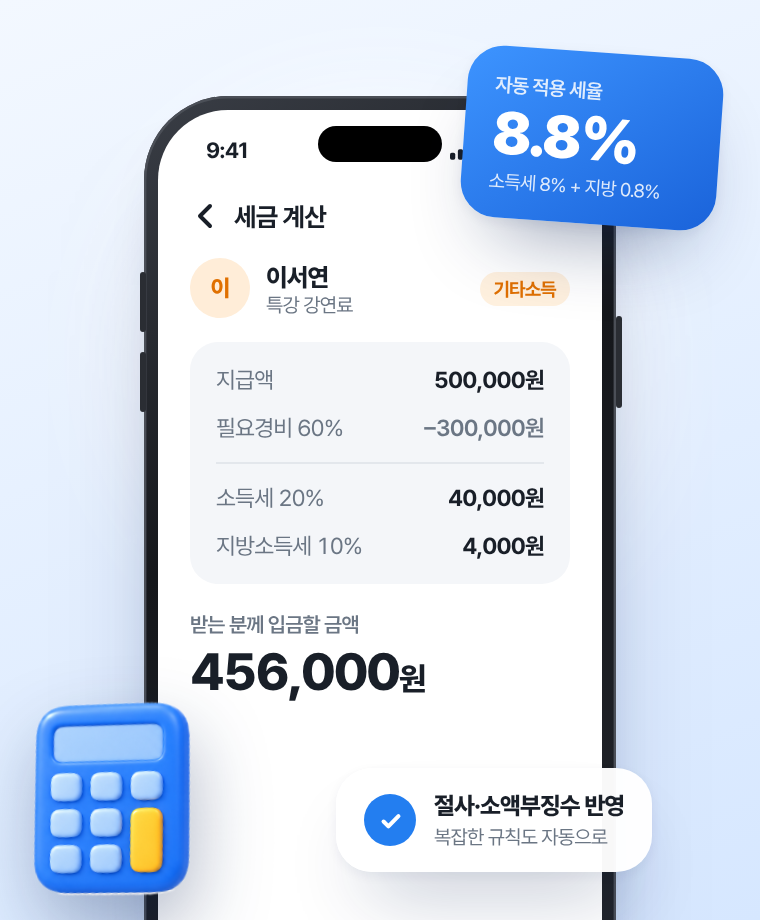
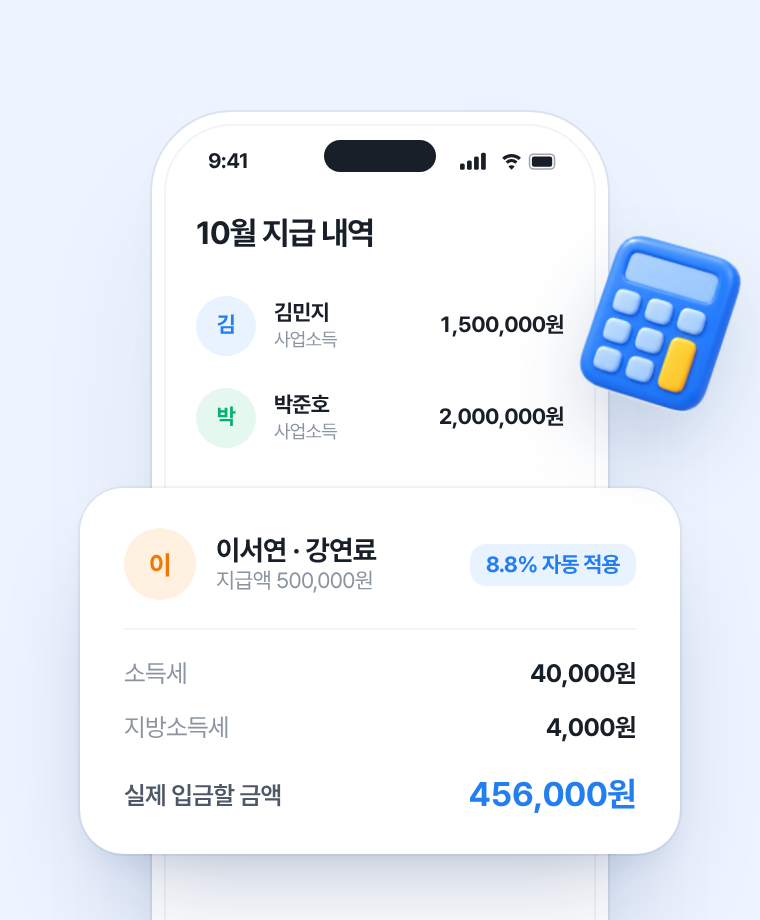
Restyle landing images in a restrained product-site look
Flat tint backgrounds, one straight light phone cropped at the bottom,
a single highlight per image (notification or pop-out card) and at most
one 3D object. Drops the dark bezels, tilted phones, glows, confetti and
stacked floating badges.

Claude-Session: https://claude.ai/code/session_01XeTdt5mgBf16amy12iLBWn

diff --git a/images/_source/frames.html b/images/_source/frames.html
@@ -1,214 +1,157 @@
 <!doctype html><html lang="ko"><head><meta charset="utf-8">
 <link rel="stylesheet" href="../../fonts/pretendard/pretendardvariable-dynamic-subset.css">
 <style>
-:root{--ink:#191F28;--sub:#6B7684;--faint:#A0A8B4;--line:#EDF0F3;--band:#F4F6F9;--blue:#237EF0;--deep:#1458C9;--wash:#EBF4FF;--soft:#CFE3FF;--kakao:#FEE500;--green:#14B866}
+/* 토스·당근 톤: 단색 배경, 반듯한 밝은 폰 하나(아래 크롭), 강조 요소 하나, 회색 단계 타이포 */
+:root{--g900:#191F28;--g700:#4E5968;--g500:#8B95A1;--g400:#B0B8C1;--g200:#E5E8EB;--g100:#F2F4F6;--g50:#F9FAFB;--blue:#237EF0;--bwash:#E8F3FF;--bg:#EDF4FF;--green:#03B26C;--gwash:#E5F8EF;--kakao:#FEE500}
 *{box-sizing:border-box;margin:0;padding:0}
-body{font-family:"Pretendard Variable",Pretendard,sans-serif;color:var(--ink);background:#ccc;letter-spacing:-.025em;-webkit-font-smoothing:antialiased;display:flex;flex-wrap:wrap;align-items:flex-start}
-.f{position:relative;overflow:hidden;margin:20px;flex-shrink:0}
+body{font-family:"Pretendard Variable",Pretendard,sans-serif;color:var(--g900);background:#999;letter-spacing:-.02em;-webkit-font-smoothing:antialiased;display:flex;flex-wrap:wrap;align-items:flex-start}
+.f{position:relative;overflow:hidden;margin:20px;flex-shrink:0;background:var(--bg)}
 .num{font-variant-numeric:tabular-nums}
-/* device */
-.dev{position:absolute;background:linear-gradient(150deg,#3A3E46 0%,#15171B 40%,#24272D 100%);padding:7px;box-shadow:0 50px 70px -36px rgba(8,30,80,.6),0 18px 30px -18px rgba(8,30,80,.35),inset 0 0 0 1.2px #4B4F57}
-.dev:before,.dev:after{content:"";position:absolute;width:3px;background:#2A2D33;border-radius:2px}
-.dev:before{left:-2.5px;top:88px;height:30px;box-shadow:0 40px 0 #2A2D33}
-.dev:after{right:-2.5px;top:110px;height:46px}
-.scr{background:#fff;height:100%;display:flex;flex-direction:column;position:relative;overflow:hidden;font-size:11px}
-.isl{position:absolute;top:8px;left:50%;transform:translateX(-50%);width:62px;height:18px;background:#000;border-radius:12px;z-index:5}
-.sb{height:36px;display:flex;align-items:center;justify-content:space-between;padding:4px 20px 0 24px;font-size:11px;font-weight:700;flex-shrink:0}
-.sb svg{display:block}
-.nav{height:34px;display:flex;align-items:center;gap:6px;padding:0 16px;font-weight:700;font-size:13px;flex-shrink:0}
-.bk{width:16px;height:16px;display:grid;place-items:center}
-.bd{padding:4px 16px 0;flex:1;display:flex;flex-direction:column;min-height:0}
-.h{font-size:19px;font-weight:800;line-height:1.32;letter-spacing:-.045em}
-.s{color:var(--sub);font-size:11px;margin-top:5px;line-height:1.5}
-.card{background:var(--band);border-radius:14px;padding:12px 14px}
+/* light phone */
+.ph{position:absolute;background:#fff;padding:7px;box-shadow:0 0 0 1px rgba(0,23,51,.07),0 40px 80px -30px rgba(0,40,100,.22),0 12px 24px -12px rgba(0,40,100,.10)}
+.ph>.scr{position:relative;height:100%;background:#fff;overflow:hidden;box-shadow:inset 0 0 0 1px var(--g100)}
+.isl{position:absolute;top:9px;left:50%;transform:translateX(-50%);width:64px;height:19px;background:var(--g900);border-radius:12px}
+.sb{height:38px;display:flex;align-items:center;justify-content:space-between;padding:3px 20px 0 26px;font-size:11.5px;font-weight:700}
+.pad{padding:0 20px}
+.t{font-weight:700;letter-spacing:-.04em;line-height:1.36}
+.c5{color:var(--g500)}.c7{color:var(--g700)}.cb{color:var(--blue)}
 .row{display:flex;justify-content:space-between;align-items:center}
-.btn{flex-shrink:0;height:42px;border-radius:12px;background:var(--blue);color:#fff;font-weight:700;font-size:12.5px;display:flex;align-items:center;justify-content:center;gap:6px}
-.btn.ghost{background:var(--wash);color:var(--blue)}
-.tag{display:inline-flex;align-items:center;font-size:9.5px;font-weight:700;color:var(--blue);background:var(--wash);border-radius:99px;padding:3px 7px;white-space:nowrap}
-.tag.g{color:#0E9F55;background:#E3F8EC}
-.tag.o{color:#E07000;background:#FFF1DF}
-.av{width:30px;height:30px;border-radius:50%;display:grid;place-items:center;font-weight:800;font-size:11.5px;flex-shrink:0}
-.av.b{background:#E1EEFF;color:var(--blue)}.av.g{background:#DFF6E9;color:#0E9F55}.av.o{background:#FFEDD8;color:#E07000}
-.dl{display:flex;justify-content:space-between;padding:5px 0;font-size:11.5px}
-.dl span:first-child{color:var(--sub)}.dl span:last-child{font-weight:700}
-hr{border:0;border-top:1px solid #E3E7EC;margin:5px 0}
-.fl{position:absolute;background:rgba(255,255,255,.97);border-radius:18px;padding:12px 14px;box-shadow:0 22px 40px -18px rgba(8,30,80,.45),0 2px 6px rgba(8,30,80,.06);z-index:10}
-.ck{width:26px;height:26px;border-radius:50%;background:var(--blue);display:grid;place-items:center;flex-shrink:0}
-.ck.g{background:var(--green)}
-.ck svg{width:13px;height:13px}
-.ft{font-size:12px;font-weight:800}.fs{font-size:10px;color:var(--sub);margin-top:2px}
-.conf{position:absolute;border-radius:2px}
-.glow{position:absolute;border-radius:50%;filter:blur(30px)}
-.ico{display:block;width:32px;height:32px;margin:20px}
+.btn{height:46px;border-radius:14px;background:var(--blue);color:#fff;font-weight:700;font-size:14px;display:flex;align-items:center;justify-content:center;gap:6px}
+.av{border-radius:50%;display:grid;place-items:center;font-weight:700;flex-shrink:0}
+.pop{position:absolute;background:#fff;border-radius:22px;box-shadow:0 0 0 1px rgba(0,23,51,.05),0 28px 56px -20px rgba(0,40,100,.28),0 8px 16px -8px rgba(0,40,100,.10)}
+.chip{display:inline-flex;align-items:center;gap:4px;font-weight:700;border-radius:8px;padding:4px 8px;font-size:11px}
+.obj{position:absolute;filter:drop-shadow(0 18px 18px rgba(0,40,100,.16))}
 </style></head><body>
 <svg width="0" height="0" style="position:absolute"><defs>
  <symbol id="stat" viewBox="0 0 64 12"><g fill="#191F28"><rect x="0" y="7" width="3" height="4" rx="1"/><rect x="4.5" y="5" width="3" height="6" rx="1"/><rect x="9" y="2.5" width="3" height="8.5" rx="1"/><rect x="13.5" y="0" width="3" height="11" rx="1"/>
  <path d="M27 3.2a9 9 0 0 1 12 0l-1.4 1.5a7 7 0 0 0-9.2 0zM29.2 5.6a5.6 5.6 0 0 1 7.6 0l-1.4 1.5a3.6 3.6 0 0 0-4.8 0zM33 11l-2-2.1a2.8 2.8 0 0 1 4 0z"/>
- <rect x="44.5" y="1" width="16" height="9.5" rx="2.6" fill="none" stroke="#191F28" stroke-opacity=".45" stroke-width="1"/><rect x="46" y="2.5" width="13" height="6.5" rx="1.4"/><rect x="61.5" y="4" width="1.4" height="3.5" rx=".7" fill-opacity=".45"/></g></symbol>
- <symbol id="chk" viewBox="0 0 14 14"><path d="M3 7.3l2.6 2.6L11 4.4" fill="none" stroke="#fff" stroke-width="2.2" stroke-linecap="round" stroke-linejoin="round"/></symbol>
- <symbol id="back" viewBox="0 0 16 16"><path d="M10 3L5 8l5 5" fill="none" stroke="#191F28" stroke-width="2" stroke-linecap="round" stroke-linejoin="round"/></symbol>
+ <rect x="44.5" y="1" width="16" height="9.5" rx="2.6" fill="none" stroke="#191F28" stroke-opacity=".4" stroke-width="1"/><rect x="46" y="2.5" width="13" height="6.5" rx="1.4"/></g></symbol>
+ <symbol id="chk" viewBox="0 0 14 14"><path d="M3 7.3l2.6 2.6L11 4.4" fill="none" stroke="currentColor" stroke-width="2.2" stroke-linecap="round" stroke-linejoin="round"/></symbol>
+ <symbol id="back" viewBox="0 0 16 16"><path d="M10 3L5 8l5 5" fill="none" stroke="#191F28" stroke-width="1.9" stroke-linecap="round" stroke-linejoin="round"/></symbol>
  <symbol id="kakao" viewBox="0 0 20 18"><path d="M10 1C4.8 1 1 4.2 1 8.1c0 2.5 1.6 4.7 4.1 5.9l-1 3.7 4.2-2.8c.6.1 1.1.1 1.7.1 5.2 0 9-3.2 9-7.1S15.2 1 10 1z" fill="#191919"/></symbol>
+ <symbol id="arr" viewBox="0 0 16 16"><path d="M6 3l5 5-5 5" fill="none" stroke="#B0B8C1" stroke-width="1.8" stroke-linecap="round" stroke-linejoin="round"/></symbol>
 </defs></svg>
 
-<!-- ============ HERO 520x560 ============ -->
-<div class="f" id="hero" style="width:520px;height:560px;background:linear-gradient(155deg,#3D94FF 0%,#237EF0 42%,#1556CC 100%)">
-  <div class="glow" style="width:300px;height:300px;background:#7CC0FF;opacity:.55;left:170px;top:60px"></div>
-  <div class="glow" style="width:260px;height:260px;background:#0E3FA8;opacity:.6;left:-80px;top:380px"></div>
-  <svg style="position:absolute;inset:0" width="520" height="560"><g fill="none" stroke="#fff" stroke-opacity=".10"><circle cx="330" cy="280" r="170"/><circle cx="330" cy="280" r="240"/><circle cx="330" cy="280" r="310"/></g></svg>
-  <!-- back phone -->
-  <div class="dev" style="left:28px;top:96px;width:224px;height:462px;border-radius:40px;transform:rotate(-7deg)"><div class="scr" style="border-radius:33px">
+<!-- ================= HERO 520x560 ================= -->
+<div class="f" id="hero" style="width:520px;height:560px">
+  <div class="ph" style="left:196px;top:56px;width:282px;height:560px;border-radius:46px"><div class="scr" style="border-radius:39px">
     <div class="isl"></div><div class="sb"><span>9:41</span><svg width="56" height="11"><use href="#stat"/></svg></div>
-    <div class="nav"><svg class="bk"><use href="#back"/></svg>10월 지급 내역</div>
-    <div class="bd">
-      <div class="card" style="background:linear-gradient(135deg,#2E88F7,#1A63DA);color:#fff;padding:13px 14px">
-        <div style="font-size:10px;opacity:.85;font-weight:600">이번 달 원천세</div>
-        <div style="font-size:20px;font-weight:800;margin-top:3px" class="num">159,500원</div>
-        <div style="font-size:9.5px;opacity:.85;margin-top:3px" class="num">지급 총액 4,000,000원 · 3명</div>
+    <div class="pad" style="text-align:center;padding-top:30px">
+      <img src="3d/doc-check.png" style="width:96px;height:96px;filter:drop-shadow(0 12px 14px rgba(0,40,100,.12))">
+      <div class="t" style="font-size:22px;margin-top:18px">10월 원천세 신고를<br>마쳤어요</div>
+      <div class="c5" style="font-size:13px;margin-top:8px">홈택스에 정상적으로 접수됐어요</div>
+    </div>
+    <div class="pad" style="margin-top:28px">
+      <div style="border-top:1px solid var(--g100);padding-top:6px;font-size:13px" class="num">
+        <div class="row" style="padding:9px 0"><span class="c5">납부할 세금</span><b class="cb">159,500원</b></div>
+        <div class="row" style="padding:9px 0"><span class="c5">납부 기한</span><b>11월 10일</b></div>
+        <div class="row" style="padding:9px 0"><span class="c5">간이지급명세서</span><b>함께 제출됨</b></div>
       </div>
-      <div style="margin-top:8px">
-        <div class="row" style="padding:8px 0"><div style="display:flex;gap:8px;align-items:center"><div class="av b">김</div><div><div style="font-weight:700;font-size:11.5px">김민지</div><div style="font-size:9.5px;color:var(--sub)">디자인 외주</div></div></div><div style="text-align:right" class="num"><div style="font-weight:700">1,500,000원</div><div style="font-size:9px;color:var(--blue);font-weight:600">사업 3.3%</div></div></div>
-        <div class="row" style="padding:8px 0;border-top:1px solid var(--line)"><div style="display:flex;gap:8px;align-items:center"><div class="av g">박</div><div><div style="font-weight:700;font-size:11.5px">박준호</div><div style="font-size:9.5px;color:var(--sub)">앱 개발 외주</div></div></div><div style="text-align:right" class="num"><div style="font-weight:700">2,000,000원</div><div style="font-size:9px;color:var(--blue);font-weight:600">사업 3.3%</div></div></div>
-        <div class="row" style="padding:8px 0;border-top:1px solid var(--line)"><div style="display:flex;gap:8px;align-items:center"><div class="av o">이</div><div><div style="font-weight:700;font-size:11.5px">이서연</div><div style="font-size:9.5px;color:var(--sub)">특강 강연료</div></div></div><div style="text-align:right" class="num"><div style="font-weight:700">500,000원</div><div style="font-size:9px;color:#E07000;font-weight:600">기타 8.8%</div></div></div>
-      </div>
+      <div class="btn" style="margin-top:20px">납부서 받기</div>
     </div>
   </div></div>
-  <!-- front phone -->
-  <div class="dev" style="left:244px;top:40px;width:236px;height:486px;border-radius:42px;transform:rotate(4deg)"><div class="scr" style="border-radius:35px">
-    <div class="isl"></div><div class="sb"><span>9:41</span><svg width="56" height="11"><use href="#stat"/></svg></div>
-    <div class="conf" style="width:7px;height:12px;background:#FFC93C;left:40px;top:62px;transform:rotate(25deg)"></div>
-    <div class="conf" style="width:6px;height:6px;background:#22C47A;left:62px;top:96px;border-radius:50%"></div>
-    <div class="conf" style="width:8px;height:4px;background:#FF7A59;left:168px;top:70px;transform:rotate(-30deg)"></div>
-    <div class="conf" style="width:6px;height:11px;background:#7AB6FF;left:182px;top:110px;transform:rotate(40deg)"></div>
-    <div class="conf" style="width:5px;height:5px;background:#FFC93C;left:150px;top:52px;border-radius:50%"></div>
-    <div class="conf" style="width:7px;height:4px;background:#237EF0;left:28px;top:128px;transform:rotate(-15deg)"></div>
-    <div class="bd" style="align-items:center;text-align:center;padding-top:30px">
-      <img src="3d/doc-check.png" style="width:86px;height:86px;margin-top:-6px;filter:drop-shadow(0 10px 14px rgba(35,126,240,.25))">
-      <div class="h" style="margin-top:10px;font-size:20px">원천세 신고가<br>완료됐어요</div>
-      <div class="s">홈택스에 정상 접수됐어요</div>
-      <div class="card" style="margin-top:16px;width:100%;text-align:left;padding:8px 13px">
-        <div class="dl num"><span>귀속 연월</span><span>2026년 10월</span></div>
-        <div class="dl num"><span>납부할 세금</span><span style="color:var(--blue)">159,500원</span></div>
-        <div class="dl num"><span>납부 기한</span><span>11월 10일</span></div>
-        <div class="dl"><span>간이지급명세서</span><span style="color:var(--green)">제출 완료</span></div>
-      </div>
-      <div style="flex:1"></div>
-      <div style="display:flex;gap:6px;width:100%;margin-bottom:18px"><div class="btn ghost" style="flex:1">접수증</div><div class="btn" style="flex:1.3">납부서 받기</div></div>
+  <!-- notification -->
+  <div class="pop" style="left:22px;top:150px;width:240px;padding:15px 16px;border-radius:20px;display:flex;gap:11px;align-items:flex-start">
+    <div style="width:38px;height:38px;border-radius:11px;background:var(--blue);display:grid;place-items:center;color:#fff;flex-shrink:0"><svg width="18" height="18"><use href="#chk"/></svg></div>
+    <div style="flex:1;min-width:0">
+      <div class="row" style="font-size:11px"><span class="c5" style="font-weight:600">원클릭 원천세</span><span class="c5">지금</span></div>
+      <div style="font-size:13.5px;font-weight:700;margin-top:3px;letter-spacing:-.03em">홈택스 신고가 접수됐어요</div>
+      <div class="c7" style="font-size:12px;margin-top:2px">3명 · 지급액 4,000,000원</div>
     </div>
-  </div></div>
-  <div class="fl" style="left:18px;top:38px;display:flex;align-items:center;gap:9px"><span class="ck"><svg><use href="#chk"/></svg></span><div><div class="ft">세율 자동 계산</div><div class="fs">3.3% · 8.8% 알아서 적용</div></div></div>
-  <img src="3d/coin.png" style="position:absolute;right:-4px;top:2px;width:86px;z-index:11;transform:rotate(12deg);filter:drop-shadow(0 14px 16px rgba(8,30,80,.35))">
-  <img src="3d/plane.png" style="position:absolute;left:18px;top:440px;width:84px;z-index:11;filter:drop-shadow(0 14px 16px rgba(8,30,80,.35))">
-  <div class="fl" style="left:110px;top:470px;display:flex;align-items:center;gap:9px"><span class="ck g"><svg><use href="#chk"/></svg></span><div><div class="ft">신고까지 단 3분</div><div class="fs">간이지급명세서도 함께 제출</div></div></div>
-</div>
-
-<!-- ============ STEPS 210x330 ============ -->
-<div class="f" id="step-1" style="width:210px;height:330px;background:linear-gradient(170deg,#F3F8FF,#DDEBFF)">
-  <div class="glow" style="width:160px;height:160px;background:#fff;left:25px;top:40px;opacity:.9"></div>
-  <div class="dev" style="left:16px;top:26px;width:178px;height:360px;border-radius:34px;padding:6px"><div class="scr" style="border-radius:28px">
-    <div class="isl" style="width:54px;height:16px;top:7px"></div><div class="sb" style="height:32px;padding:3px 14px 0 20px;font-size:10px"><span>9:41</span><svg width="46" height="9"><use href="#stat"/></svg></div>
-    <div class="bd" style="padding:8px 14px 0;align-items:center;text-align:center">
-      <img src="3d/coin.png" style="width:62px;height:62px;margin-top:-4px;filter:drop-shadow(0 8px 10px rgba(224,160,0,.25))">
-      <div style="font-size:16.5px;font-weight:800;line-height:1.32;letter-spacing:-.05em;margin-top:8px">원천세 신고,<br>카카오로 바로 시작</div>
-      <div class="s" style="font-size:10px">회원가입·앱 설치 없이 무료</div>
-      <div style="display:flex;gap:5px;margin-top:14px"><span class="tag">사업소득 3.3%</span><span class="tag o">기타소득 8.8%</span></div>
-      <div class="btn" style="width:100%;background:var(--kakao);color:#191919;height:40px;font-size:12px;margin-top:18px"><svg width="15" height="14"><use href="#kakao"/></svg>카카오로 시작하기</div>
-    </div>
-  </div></div>
-</div>
-
-<div class="f" id="step-2" style="width:210px;height:330px;background:linear-gradient(170deg,#F3F8FF,#DDEBFF)">
-  <div class="dev" style="left:16px;top:26px;width:178px;height:360px;border-radius:34px;padding:6px"><div class="scr" style="border-radius:28px">
-    <div class="isl" style="width:54px;height:16px;top:7px"></div><div class="sb" style="height:32px;padding:3px 14px 0 20px;font-size:10px"><span>9:41</span><svg width="46" height="9"><use href="#stat"/></svg></div>
-    <div class="bd" style="padding:6px 13px 0">
-      <div style="font-size:15.5px;font-weight:800;line-height:1.32;letter-spacing:-.05em">누구에게 얼마를<br>지급했나요?</div>
-      <div style="margin-top:12px;display:flex;gap:7px;align-items:center;padding:8px 10px;border-radius:11px;background:var(--band)"><div class="av b" style="width:24px;height:24px;font-size:10px">김</div><div style="flex:1"><div style="font-weight:700;font-size:11px">김민지</div><div style="font-size:9px;color:var(--sub)">디자이너 · 외주비</div></div></div>
-      <div style="display:flex;gap:5px;margin-top:8px"><div style="flex:1;height:30px;border-radius:9px;border:1.5px solid var(--blue);background:var(--wash);color:var(--blue);font-size:10px;font-weight:700;display:grid;place-items:center">사업소득 3.3%</div><div style="flex:1;height:30px;border-radius:9px;border:1.5px solid var(--line);color:var(--sub);font-size:10px;font-weight:700;display:grid;place-items:center">기타소득 8.8%</div></div>
-      <div style="margin-top:12px;font-size:9.5px;color:var(--blue);font-weight:700">지급액</div>
-      <div style="display:flex;align-items:flex-end;gap:2px;border-bottom:2px solid var(--blue);padding:3px 0 5px"><span class="num" style="font-size:21px;font-weight:800;letter-spacing:-.03em">1,500,000</span><span style="width:2px;height:20px;background:var(--blue);margin:0 2px 3px"></span><span style="margin-left:auto;font-size:13px;font-weight:700;margin-bottom:3px">원</span></div>
-      <div style="margin-top:8px;display:flex;justify-content:space-between;font-size:9.5px" class="num"><span style="color:var(--sub)">원천징수 세액</span><span style="font-weight:700;color:var(--blue)">49,500원</span></div>
-    </div>
-  </div></div>
-</div>
-
-<div class="f" id="step-3" style="width:210px;height:330px;background:linear-gradient(170deg,#F3F8FF,#DDEBFF)">
-  <div class="dev" style="left:16px;top:26px;width:178px;height:360px;border-radius:34px;padding:6px"><div class="scr" style="border-radius:28px">
-    <div class="isl" style="width:54px;height:16px;top:7px"></div><div class="sb" style="height:32px;padding:3px 14px 0 20px;font-size:10px"><span>9:41</span><svg width="46" height="9"><use href="#stat"/></svg></div>
-    <div class="bd" style="padding:6px 13px 0">
-      <div style="font-size:10px;color:var(--sub);font-weight:600">10월 지급분 · 3명</div>
-      <div style="font-size:15.5px;font-weight:800;line-height:1.32;letter-spacing:-.05em;margin-top:3px">이번 달 낼 세금은</div>
-      <div class="num" style="font-size:25px;font-weight:800;color:var(--blue);letter-spacing:-.04em;line-height:1.25">159,500<span style="font-size:16px;color:var(--ink)">원</span></div>
-      <div class="card" style="margin-top:10px;padding:5px 11px">
-        <div class="dl num" style="font-size:10.5px"><span>소득세</span><span>145,000원</span></div>
-        <div class="dl num" style="font-size:10.5px"><span>지방소득세</span><span>14,500원</span></div>
-        <hr><div class="dl num" style="font-size:10.5px"><span>납부 기한</span><span>11월 10일</span></div>
-      </div>
-      <div style="display:flex;align-items:center;gap:5px;margin-top:9px;font-size:9.5px;font-weight:700;color:var(--sub)"><span class="ck g" style="width:14px;height:14px"><svg style="width:8px;height:8px"><use href="#chk"/></svg></span>간이지급명세서도 함께 제출돼요</div>
-      <div class="btn" style="margin-top:8px;height:38px;font-size:11.5px;box-shadow:0 8px 16px -8px rgba(35,126,240,.8)">홈택스에 신고하기</div>
-    </div>
-  </div></div>
-  
-</div>
-
-<!-- ============ FEATURE CALC 380x460 ============ -->
-<div class="f" id="feature-calc" style="width:380px;height:460px;background:linear-gradient(160deg,#F3F8FF 0%,#D6E7FF 100%)">
-  <div class="glow" style="width:240px;height:240px;background:#fff;left:70px;top:60px;opacity:.9"></div>
-  <div class="dev" style="left:72px;top:48px;width:236px;height:470px;border-radius:42px"><div class="scr" style="border-radius:35px">
-    <div class="isl"></div><div class="sb"><span>9:41</span><svg width="56" height="11"><use href="#stat"/></svg></div>
-    <div class="nav"><svg class="bk"><use href="#back"/></svg>세금 계산</div>
-    <div class="bd">
-      <div class="row"><div style="display:flex;align-items:center;gap:8px"><div class="av o">이</div><div><div style="font-weight:800;font-size:12.5px">이서연</div><div style="font-size:10px;color:var(--sub)">특강 강연료</div></div></div><span class="tag o">기타소득</span></div>
-      <div class="card" style="margin-top:12px;padding:7px 13px">
-        <div class="dl num"><span>지급액</span><span>500,000원</span></div>
-        <div class="dl num"><span>필요경비 60%</span><span style="color:var(--sub);font-weight:600">−300,000원</span></div>
-        <hr>
-        <div class="dl num"><span>소득세 20%</span><span>40,000원</span></div>
-        <div class="dl num"><span>지방소득세 10%</span><span>4,000원</span></div>
-      </div>
-      <div style="margin-top:14px;font-size:10.5px;color:var(--sub);font-weight:600">받는 분께 입금할 금액</div>
-      <div class="num" style="font-size:26px;font-weight:800;letter-spacing:-.04em;margin-top:1px">456,000<span style="font-size:16px">원</span></div>
-    </div>
-  </div></div>
-  <!-- big rate badge -->
-  <div class="fl" style="left:232px;top:26px;width:128px;padding:13px 14px;background:linear-gradient(145deg,#3D94FF,#1A63DA);color:#fff;transform:rotate(4deg)">
-    <div style="font-size:10px;font-weight:600;opacity:.85">자동 적용 세율</div>
-    <div style="font-size:30px;font-weight:900;letter-spacing:-.04em;line-height:1.1;margin-top:2px">8.8%</div>
-    <div style="font-size:9.5px;opacity:.85;margin-top:2px">소득세 8% + 지방 0.8%</div>
   </div>
-  <img src="3d/calculator.png" style="position:absolute;left:6px;top:350px;width:100px;z-index:11;transform:rotate(-8deg);filter:drop-shadow(0 16px 18px rgba(8,30,80,.3))">
-  <div class="fl" style="left:168px;top:384px;display:flex;align-items:center;gap:9px"><span class="ck"><svg><use href="#chk"/></svg></span><div><div class="ft">절사·소액부징수 반영</div><div class="fs">복잡한 규칙도 자동으로</div></div></div>
 </div>
 
-<!-- ============ FEATURE HOMETAX 380x460 ============ -->
-<div class="f" id="feature-hometax" style="width:380px;height:460px;background:linear-gradient(160deg,#F3F8FF 0%,#D6E7FF 100%)">
-  <div class="glow" style="width:240px;height:240px;background:#fff;left:70px;top:60px;opacity:.9"></div>
-  <div class="dev" style="left:40px;top:48px;width:236px;height:470px;border-radius:42px"><div class="scr" style="border-radius:35px">
-    <div class="isl"></div><div class="sb"><span>9:41</span><svg width="56" height="11"><use href="#stat"/></svg></div>
-    <div class="nav" style="font-size:15px;padding-top:4px">신고 내역</div>
-    <div class="bd" style="gap:8px;padding-top:8px">
-      <div class="card" style="background:#fff;box-shadow:0 0 0 1.5px var(--soft),0 8px 16px -10px rgba(35,126,240,.5)">
-        <div class="row"><span style="font-weight:800;font-size:12.5px">2026년 10월</span><span class="tag g">접수 완료</span></div>
-        <div class="num" style="font-size:17px;font-weight:800;margin-top:5px">159,500원</div>
-        <div style="font-size:9.5px;color:var(--sub);margin-top:1px">원천세 · 간이지급명세서 제출</div>
-        <div style="display:flex;gap:6px;margin-top:10px"><div class="btn ghost" style="flex:1;height:30px;font-size:10.5px">접수증</div><div class="btn" style="flex:1;height:30px;font-size:10.5px">납부서</div></div>
-      </div>
-      <div class="card"><div class="row"><span style="font-weight:800;font-size:12px">2026년 9월</span><span class="tag g">접수 완료</span></div><div class="num" style="font-size:10px;color:var(--sub);margin-top:4px">원천세 99,000원</div></div>
-      <div class="card"><div class="row"><span style="font-weight:800;font-size:12px">2026년 8월</span><span class="tag g">접수 완료</span></div><div class="num" style="font-size:10px;color:var(--sub);margin-top:4px">원천세 115,500원</div></div>
-          </div>
-  </div></div>
-  <img src="3d/plane.png" style="position:absolute;left:270px;top:40px;width:96px;z-index:11;filter:drop-shadow(0 16px 18px rgba(8,30,80,.3))">
-  <!-- receipt document -->
-  <div class="fl" style="left:246px;top:150px;width:124px;padding:14px 12px 46px;border-radius:12px;transform:rotate(5deg)">
-    <div style="font-size:11.5px;font-weight:800;text-align:center">접수증</div>
-    <div style="height:1.5px;background:var(--ink);margin:7px 0 8px"></div>
-    <div class="num" style="font-size:8.5px;line-height:1.75;color:var(--sub)">
-      <div class="row"><span>신고서 종류</span><b style="color:var(--ink)">원천세</b></div>
-      <div class="row"><span>귀속 연월</span><b style="color:var(--ink)">2026.10</b></div>
-      <div class="row"><span>접수 일시</span><b style="color:var(--ink)">11.06 14:32</b></div>
+<!-- ================= STEPS 210x330 ================= -->
+<div class="f" id="step-1" style="width:210px;height:330px">
+  <div class="ph" style="left:22px;top:30px;width:166px;height:340px;border-radius:32px;padding:5px"><div class="scr" style="border-radius:27px">
+    <div class="isl" style="width:36px;height:12px;top:8px"></div><div class="sb" style="height:30px;padding:2px 13px 0 18px;font-size:9.5px"><span>9:41</span><svg width="36" height="7"><use href="#stat"/></svg></div>
+    <div style="padding:22px 14px 0;text-align:center">
+      <img src="3d/coin.png" style="width:58px;height:58px">
+      <div class="t" style="font-size:15px;margin-top:12px">원천세 신고,<br>3분이면 끝나요</div>
+      <div class="c5" style="font-size:9.5px;margin-top:6px">앱 설치 없이 무료로 시작해요</div>
+      <div class="btn" style="margin-top:26px;height:38px;border-radius:11px;font-size:11px;background:var(--kakao);color:#191919"><svg width="13" height="12"><use href="#kakao"/></svg>카카오로 시작하기</div>
     </div>
-    <div style="margin-top:8px;display:grid;gap:4px"><div style="height:4px;border-radius:2px;background:var(--line)"></div><div style="height:4px;width:70%;border-radius:2px;background:var(--line)"></div></div>
-    <div style="position:absolute;right:12px;bottom:6px;width:36px;height:36px;border-radius:50%;border:2px solid #237EF0;color:#237EF0;display:grid;place-items:center;font-size:10px;font-weight:900;transform:rotate(-14deg);opacity:.9">접수</div>
-  </div>
-  <div class="fl" style="left:150px;top:388px;display:flex;align-items:center;gap:9px"><span class="ck g"><svg><use href="#chk"/></svg></span><div><div class="ft">홈택스 자동 제출</div><div class="fs">신고서·명세서 한 번에</div></div></div>
+  </div></div>
 </div>
 
+<div class="f" id="step-2" style="width:210px;height:330px">
+  <div class="ph" style="left:22px;top:30px;width:166px;height:340px;border-radius:32px;padding:5px"><div class="scr" style="border-radius:27px">
+    <div class="isl" style="width:36px;height:12px;top:8px"></div><div class="sb" style="height:30px;padding:2px 13px 0 18px;font-size:9.5px"><span>9:41</span><svg width="36" height="7"><use href="#stat"/></svg></div>
+    <div style="padding:14px 14px 0">
+      <div class="t" style="font-size:15px">누구에게 얼마를<br>지급했나요?</div>
+      <div style="margin-top:18px"><div class="c5" style="font-size:9px;font-weight:600">받는 사람</div><div style="font-size:12.5px;font-weight:700;padding:5px 0 7px;border-bottom:1px solid var(--g200)">김민지</div></div>
+      <div style="margin-top:12px"><div class="c5" style="font-size:9px;font-weight:600">소득 종류</div><div class="row" style="font-size:12.5px;font-weight:700;padding:5px 0 7px;border-bottom:1px solid var(--g200)">사업소득 3.3%<svg width="10" height="10" style="transform:rotate(90deg)"><use href="#arr"/></svg></div></div>
+      <div style="margin-top:12px"><div class="cb" style="font-size:9px;font-weight:700">지급액</div><div class="row num" style="font-size:17px;font-weight:700;padding:3px 0 6px;border-bottom:2px solid var(--blue)"><span>1,500,000<span style="display:inline-block;width:1.5px;height:16px;background:var(--blue);margin-left:2px;vertical-align:-2px"></span></span><span style="font-size:12.5px">원</span></div></div>
+      <div class="row num" style="margin-top:7px;font-size:9.5px"><span class="c5">떼어둘 세금</span><b class="cb">49,500원</b></div>
+    </div>
+  </div></div>
+</div>
+
+<div class="f" id="step-3" style="width:210px;height:330px">
+  <div class="ph" style="left:22px;top:30px;width:166px;height:340px;border-radius:32px;padding:5px"><div class="scr" style="border-radius:27px">
+    <div class="isl" style="width:36px;height:12px;top:8px"></div><div class="sb" style="height:30px;padding:2px 13px 0 18px;font-size:9.5px"><span>9:41</span><svg width="36" height="7"><use href="#stat"/></svg></div>
+    <div style="padding:14px 14px 0">
+      <div class="c5" style="font-size:10px;font-weight:600">10월에 낼 원천세</div>
+      <div class="t num" style="font-size:23px;margin-top:2px">159,500원</div>
+      <div style="margin-top:14px;font-size:10.5px" class="num">
+        <div class="row" style="padding:5px 0"><span class="c5">소득세</span><b>145,000원</b></div>
+        <div class="row" style="padding:5px 0"><span class="c5">지방소득세</span><b>14,500원</b></div>
+        <div class="row" style="padding:5px 0"><span class="c5">납부 기한</span><b>11월 10일</b></div>
+      </div>
+      <div style="margin-top:10px;background:var(--g50);border-radius:10px;padding:8px 10px;font-size:9.5px;display:flex;gap:5px;align-items:center" class="c7"><svg width="11" height="11" style="color:var(--green)"><use href="#chk"/></svg>간이지급명세서 함께 제출</div>
+      <div class="btn" style="margin-top:14px;height:38px;border-radius:11px;font-size:11.5px">홈택스에 신고하기</div>
+    </div>
+  </div></div>
+</div>
+
+<!-- ================= FEATURE CALC 380x460 ================= -->
+<div class="f" id="feature-calc" style="width:380px;height:460px">
+  <div class="ph" style="left:76px;top:56px;width:228px;height:480px;border-radius:40px;padding:6px"><div class="scr" style="border-radius:34px">
+    <div class="isl" style="width:56px;height:16px;top:8px"></div><div class="sb" style="height:34px;font-size:10.5px;padding:3px 18px 0 22px"><span>9:41</span><svg width="50" height="10"><use href="#stat"/></svg></div>
+    <div style="padding:10px 16px 0">
+      <div class="t" style="font-size:16px">10월 지급 내역</div>
+      <div class="num" style="margin-top:12px;font-size:11px">
+        <div class="row" style="padding:8px 0"><div style="display:flex;gap:9px;align-items:center"><div class="av" style="width:30px;height:30px;background:var(--bwash);color:var(--blue);font-size:11px">김</div><div><b>김민지</b><div class="c5" style="font-size:9.5px;margin-top:1px">사업소득</div></div></div><b>1,500,000원</b></div>
+        <div class="row" style="padding:8px 0"><div style="display:flex;gap:9px;align-items:center"><div class="av" style="width:30px;height:30px;background:var(--gwash);color:var(--green);font-size:11px">박</div><div><b>박준호</b><div class="c5" style="font-size:9.5px;margin-top:1px">사업소득</div></div></div><b>2,000,000원</b></div>
+        
+      </div>
+    </div>
+  </div></div>
+  <!-- pop-out: expanded calc of 이서연 -->
+  <div class="pop" style="left:40px;top:244px;width:300px;padding:20px 22px">
+    <div class="row"><div style="display:flex;gap:10px;align-items:center"><div class="av" style="width:36px;height:36px;background:#FFF0E0;color:#F07800;font-size:13px">이</div><div><div style="font-size:14px;font-weight:700">이서연 · 강연료</div><div class="c5" style="font-size:11px;margin-top:1px">지급액 500,000원</div></div></div><span class="chip" style="background:var(--bwash);color:var(--blue)">8.8% 자동 적용</span></div>
+    <div class="num" style="margin-top:14px;font-size:12.5px;border-top:1px solid var(--g100);padding-top:8px">
+      <div class="row" style="padding:6px 0"><span class="c5">소득세</span><b>40,000원</b></div>
+      <div class="row" style="padding:6px 0"><span class="c5">지방소득세</span><b>4,000원</b></div>
+      <div class="row" style="padding:10px 0 0"><span class="c7" style="font-weight:600">실제 입금할 금액</span><b class="cb" style="font-size:17px">456,000원</b></div>
+    </div>
+  </div>
+  <img class="obj" src="3d/calculator.png" style="right:8px;top:120px;width:84px;transform:rotate(10deg)">
+</div>
+
+<!-- ================= FEATURE HOMETAX 380x460 ================= -->
+<div class="f" id="feature-hometax" style="width:380px;height:460px">
+  <div class="ph" style="left:76px;top:56px;width:228px;height:480px;border-radius:40px;padding:6px"><div class="scr" style="border-radius:34px">
+    <div class="isl" style="width:56px;height:16px;top:8px"></div><div class="sb" style="height:34px;font-size:10.5px;padding:3px 18px 0 22px"><span>9:41</span><svg width="50" height="10"><use href="#stat"/></svg></div>
+    <div style="padding:10px 16px 0">
+      <div class="t" style="font-size:16px">신고 내역</div>
+      <div class="num" style="margin-top:10px;font-size:11px">
+        <div class="row" style="padding:10px 0;border-bottom:1px solid var(--g100)"><div><b>2026년 9월분</b><div class="c5" style="font-size:9.5px;margin-top:2px">99,000원 · 접수 완료</div></div><svg width="12" height="12"><use href="#arr"/></svg></div>
+        <div class="row" style="padding:10px 0;border-bottom:1px solid var(--g100)"><div><b>2026년 8월분</b><div class="c5" style="font-size:9.5px;margin-top:2px">115,500원 · 접수 완료</div></div><svg width="12" height="12"><use href="#arr"/></svg></div>
+        
+      </div>
+    </div>
+  </div></div>
+  <!-- pop-out: this month's filing -->
+  <div class="pop" style="left:40px;top:236px;width:300px;padding:20px 22px">
+    <div class="row"><div style="font-size:14px;font-weight:700">2026년 10월분</div><span class="chip" style="background:var(--gwash);color:var(--green)"><svg width="10" height="10"><use href="#chk"/></svg>홈택스 접수 완료</span></div>
+    <div class="num" style="margin-top:12px;font-size:12px;border-top:1px solid var(--g100);padding-top:6px">
+      <div class="row" style="padding:6px 0"><span class="c5">원천징수이행상황신고서</span><b>제출</b></div>
+      <div class="row" style="padding:6px 0"><span class="c5">간이지급명세서</span><b>제출</b></div>
+      <div class="row" style="padding:6px 0"><span class="c5">납부할 세금</span><b class="cb">159,500원</b></div>
+    </div>
+    <div style="display:flex;gap:8px;margin-top:12px"><div class="btn" style="flex:1;height:38px;font-size:12px;border-radius:11px;background:var(--g100);color:var(--g700)">접수증</div><div class="btn" style="flex:1;height:38px;font-size:12px;border-radius:11px">납부서</div></div>
+  </div>
+  <img class="obj" src="3d/plane.png" style="left:22px;top:30px;width:92px">
+</div>
 </body></html>
